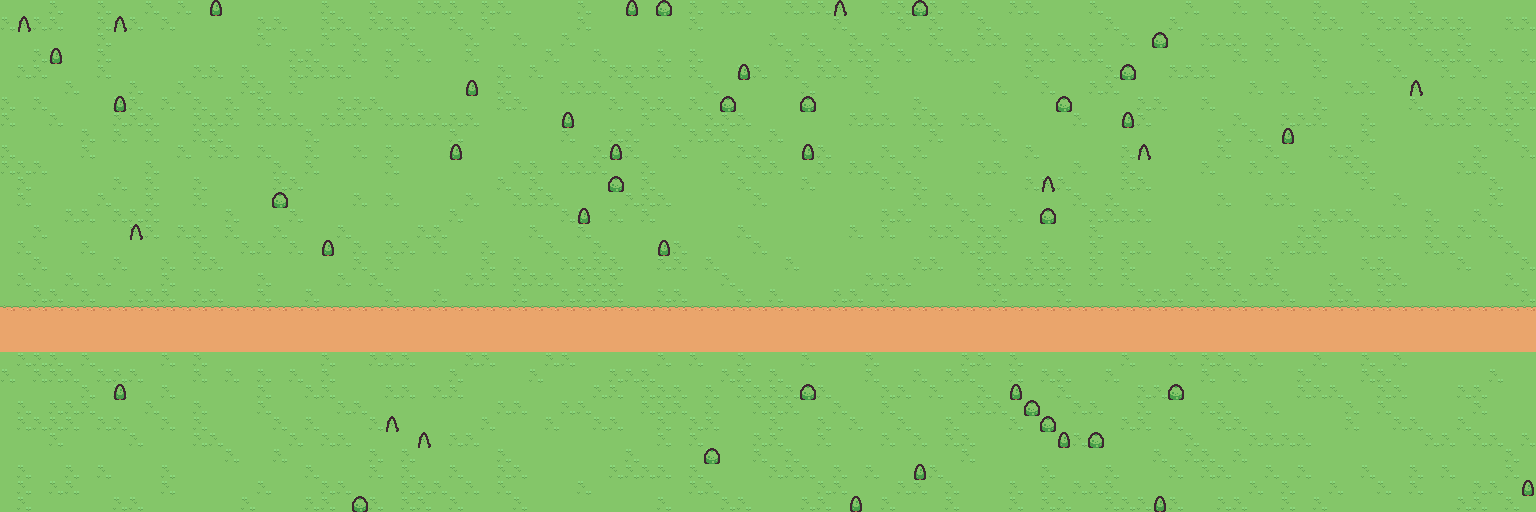
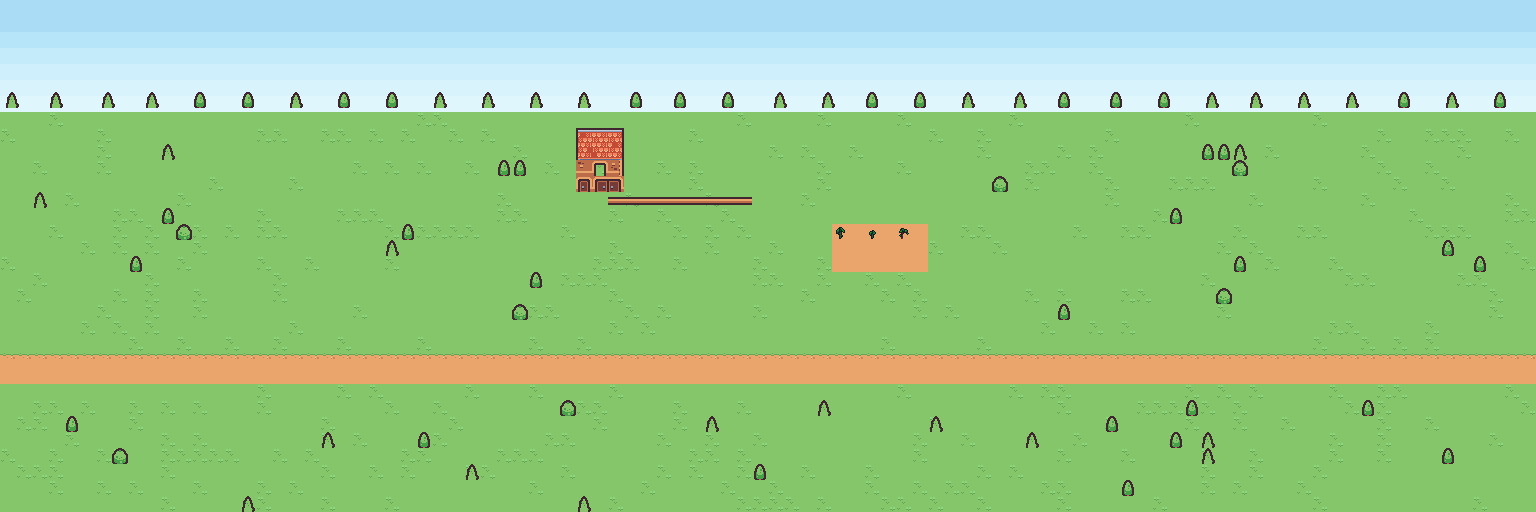
fix(wasm): sign-in buttons to spec, hide off providers, readable title
- Google: the real Google Identity Services button (outline, large, rectangular, left logo, the game's locale) at the form's width.
- Microsoft: the official button spec (41 px high, white, 1 px #8C8C8C edge, 2 px corners, 21 px mark 12 px from the left, Segoe UI 15 px 600 #5E5E5E, hover #F3F3F3).
- Both buttons share one width and height, stacked with an 8 px gap, inside the panel padding, with no wooden frame.
- A provider that is off on the server has no button; one notice says so.
- The title and tagline sit on a dark plaque for contrast.
- The backdrop is a soft farm scene: a sky band, a tree line, a farmhouse, a fence, a tilled plot and a path (art/own/ui/start_meadow.png), anchored to the top.

The QA capture takes a labelled providers-enabled run with dummy client ids (NOSUM_QA_DUMMY_PROVIDERS), set in memory; the repository config is unchanged.

diff --git a/wasm/Nosum.Wasm/Components/Account/MicrosoftSignInButton.razor.css b/wasm/Nosum.Wasm/Components/Account/MicrosoftSignInButton.razor.css
@@ -1,28 +1,28 @@
-/* Microsoft's button (brand guidelines): white with a grey edge, the mark and the label on one line. The colours are the brand's, not the theme's,
-   and the 1 px edge is the brand's too. The size is in u, like the rest of the window. */
+/* Microsoft's button, to its official spec: 41 px high, white, a 1 px #8C8C8C edge, at most 2 px corners, the 21 px mark 12 px from the left, the label
+   in Segoe UI 15 px weight 600 #5E5E5E. The brand sets these values, so they are not in u or the theme's tokens (docs/adr/ADR-082). */
 .ms-signin {
     box-sizing: border-box;
     display: flex;
     align-items: center;
     justify-content: center;
-    gap: calc(var(--u) * 3);
+    gap: 12px;
     width: 100%;
-    height: calc(var(--u) * 14);
+    height: 41px;
     margin: 0;
-    padding: 0 calc(var(--u) * 3);
+    padding: 0 12px;
     background: #ffffff;
     border: 1px solid #8c8c8c;
-    border-radius: 0;
+    border-radius: 2px;
     color: #5e5e5e;
-    font-family: "Segoe UI", "Segoe UI Semibold", "Helvetica Neue", Arial, sans-serif;
-    font-size: var(--nosum-fs-body);
+    font-family: "Segoe UI", system-ui, sans-serif;
+    font-size: 15px;
     font-weight: 600;
     line-height: 1;
     cursor: pointer;
 }
 
 .ms-signin:hover {
-    background: #f2f2f2;
+    background: #f3f3f3;
 }
 
 .ms-signin:active {
@@ -43,8 +43,8 @@
 
 .ms-signin-mark {
     flex: none;
-    width: calc(var(--u) * 7);
-    height: calc(var(--u) * 7);
+    width: 21px;
+    height: 21px;
 }
 
 .ms-signin-label {

diff --git a/wasm/Nosum.Wasm/Components/Account/AccountForm.razor.css b/wasm/Nosum.Wasm/Components/Account/AccountForm.razor.css
@@ -8,33 +8,22 @@
     gap: calc(var(--u) * 2);
 }
 
-/* The two provider buttons share one width and sit centred, with no pixel frame: Google's and Microsoft's own looks. */
+/* The two provider buttons: the same width and height (41 px), stacked with an 8 px gap, no frame around them. A provider that is off has no
+   button here. */
 .account-providers {
     display: flex;
     flex-direction: column;
     align-items: stretch;
-    gap: calc(var(--u) * 2);
+    gap: 8px;
     width: 100%;
 }
 
-/* The slot Google's button is drawn into: Google sizes its button to the slot's width (external-sign-in.js). */
+/* The slot Google's button is drawn into: Google sizes its button to the slot's width (external-sign-in.js), and centres it in the 41 px height. */
 .account-google {
     display: flex;
     align-items: center;
     justify-content: center;
     box-sizing: border-box;
     width: 100%;
-    min-height: calc(var(--u) * 14);
-}
-
-/* Google's button while Google is off on this server: the same size and edge as Microsoft's, greyed. */
-.account-google-off {
-    height: calc(var(--u) * 14);
-    border: 1px solid #cccccc;
-    background: #f2f2f2;
-    color: #a6a6a6;
-    font-family: "Segoe UI", "Helvetica Neue", Arial, sans-serif;
-    font-size: var(--nosum-fs-body);
-    font-weight: 600;
-    line-height: 1;
+    height: 41px;
 }

diff --git a/wasm/Nosum.Wasm/Components/Account/StartScreen.razor.css b/wasm/Nosum.Wasm/Components/Account/StartScreen.razor.css
@@ -16,7 +16,7 @@
     background-image: url("_content/Nosum.Wasm.Controls/ui/start_meadow.png");
     background-repeat: repeat;
     background-size: calc(var(--u) * 1536) calc(var(--u) * 512);
-    background-position: 50% 50%;
+    background-position: 50% 0;
     image-rendering: pixelated;
 }
 
@@ -43,8 +43,19 @@
         0 calc(var(--logo-o) * 3) 0 var(--nosum-edge), var(--logo-o) calc(var(--logo-o) * 3) 0 var(--nosum-edge), calc(var(--logo-o) * -1) calc(var(--logo-o) * 3) 0 var(--nosum-edge);
 }
 
+/* The title and tagline sit on a dark plaque, so the cream title and the tagline read clearly over the sky and the meadow. */
+.start-hero {
+    display: flex;
+    flex-direction: column;
+    align-items: center;
+    box-sizing: border-box;
+    padding: calc(var(--u) * 3) calc(var(--u) * 6) calc(var(--u) * 2);
+    background: color-mix(in srgb, var(--nosum-wood-dark) 88%, transparent);
+    border: var(--u) solid var(--nosum-edge);
+}
+
 .start-tagline {
-    margin: 0 0 var(--nosum-gap-group);
+    margin: 0;
     color: var(--nosum-ink-on-dark);
     text-shadow: var(--tp) var(--tp) 0 var(--nosum-edge);
 }

diff --git a/tools/art_repack/start_meadow.py b/tools/art_repack/start_meadow.py
@@ -1,8 +1,8 @@
-"""Composes the start-screen meadow (art/own/ui/start_meadow.png) from Kenney Tiny Town tiles (CC0).
+"""Composes the start-screen backdrop, art/own/ui/start_meadow.png, from CC0 tiles (Kenney Tiny Town and the josehzz crops sheet).
 
-The tiles are cut from art/source/kenney_tiny-town/Tilemap/tilemap.png: 16 x 16 px cells on a 17 px pitch (1 px gap). The picture is 96 x 32 cells,
-1536 x 512 px, drawn at 1 art pixel = 1 u on the start screen and repeated, so the page is meadow at any size. Run from the repository root: python3 tools/art_repack/start_meadow.py
-The seed fixes the grass pattern, so the output is the same on every run.
+The picture is 96 x 32 cells of 16 px (1536 x 512 px). It is drawn at 1 art pixel = 1 u on the start screen, anchored to the top and repeated, so
+the soft sky band stays at the top of any screen. The farm sits in the middle columns, where the window is drawn at 1280 px wide. The seed fixes the
+random scatter, so a run reproduces the file. Run from the repository root: python3 tools/art_repack/start_meadow.py
 """
 
 import os
@@ -11,37 +11,78 @@ import random
 from PIL import Image
 
 ROOT = os.path.abspath(os.path.join(os.path.dirname(__file__), "..", ".."))
-SRC = os.path.join(ROOT, "art", "source", "kenney_tiny-town", "Tilemap", "tilemap.png")
+TOWN = os.path.join(ROOT, "art", "source", "kenney_tiny-town", "Tilemap", "tilemap.png")
+CROPS = os.path.join(ROOT, "art", "source", "josehzz_farming-crops-16x16", "Crop_Spritesheet.png")
 OUT = os.path.join(ROOT, "art", "own", "ui", "start_meadow.png")
 
-sheet = Image.open(SRC).convert("RGBA")
+town = Image.open(TOWN).convert("RGBA")
+crops = Image.open(CROPS).convert("RGBA")
 
 
 def tile(col, row):
+    """A Tiny Town cell: 16 px on a 17 px pitch (1 px gap)."""
     x, y = col * 17, row * 17
-    return sheet.crop((x, y, x + 16, y + 16))
+    return town.crop((x, y, x + 16, y + 16))
+
+
+def crop_cell(col, row):
+    """A crops-sheet cell: 16 px on a 16 px pitch."""
+    x, y = col * 16, row * 16
+    return crops.crop((x, y, x + 16, y + 16))
 
 
 W, H = 96, 32
-img = Image.new("RGBA", (W * 16, H * 16), (0, 0, 0, 0))
+SKY_ROWS = 7
+SKY = [(170, 220, 245), (170, 220, 245), (182, 228, 248), (196, 235, 250), (206, 239, 251), (216, 243, 252), (224, 246, 253)]
 rng = random.Random(7)
-grass = [tile(0, 0), tile(0, 0), tile(0, 0), tile(0, 0), tile(1, 0), tile(1, 0)]
-for ty in range(H):
+img = Image.new("RGBA", (W * 16, H * 16), (0, 0, 0, 255))
+
+# Sky band: flat soft rows at the top.
+for ty in range(SKY_ROWS):
+    img.paste(SKY[ty], (0, ty * 16, W * 16, ty * 16 + 16))
+
+# Meadow below the sky: grass with a few specks; the lighter tile is used less.
+grass = [tile(0, 0)] * 5 + [tile(1, 0)]
+for ty in range(SKY_ROWS, H):
     for tx in range(W):
         img.paste(rng.choice(grass), (tx * 16, ty * 16))
 
-# A dirt path across the lower third.
-PATH_TOP, PATH_BOTTOM = 19, 21
-for tx in range(W):
-    for ty in range(PATH_TOP, PATH_BOTTOM + 1):
-        img.paste(tile(1, 1) if ty == PATH_TOP else tile(1, 2), (tx * 16, ty * 16))
+# A distant tree line along the sky's edge, sparse and soft.
+for tx in range(0, W, 3):
+    img.alpha_composite(tile(4, 0) if rng.random() < 0.6 else tile(4, 2), (tx * 16 + rng.randrange(0, 2) * 4, (SKY_ROWS - 1) * 16 - 4))
 
-# Trees and bushes scattered over the whole picture, off the path, so any window of the tiled meadow shows some.
+# Path: one narrow band, low in the picture, across the full width.
+PATH_TOP, PATH_BOTTOM = 22, 23
+for tx in range(W):
+    img.paste(tile(1, 1), (tx * 16, PATH_TOP * 16))
+    img.paste(tile(1, 2), (tx * 16, (PATH_TOP + 1) * 16))
+
+# The farm, centred on the visible columns (34 to 62): a red-roofed house left of centre, a rail fence, and a tilled plot with sprouts.
+HOUSE_X, HOUSE_Y = 36, 8
+for col in range(3):
+    img.alpha_composite(tile(4 + col, 4), ((HOUSE_X + col) * 16, HOUSE_Y * 16))
+    img.alpha_composite(tile(4 + col, 5), ((HOUSE_X + col) * 16, (HOUSE_Y + 1) * 16))
+    img.alpha_composite(tile(1 + col, 6), ((HOUSE_X + col) * 16, (HOUSE_Y + 2) * 16))
+    img.alpha_composite(tile(1 + col, 7), ((HOUSE_X + col) * 16, (HOUSE_Y + 3) * 16))
+
+for tx in range(38, 47):
+    img.alpha_composite(tile(9, 6), (tx * 16, 12 * 16))
+
+PLOT_X, PLOT_Y, PLOT_W, PLOT_H = 52, 14, 6, 3
+for ty in range(PLOT_Y, PLOT_Y + PLOT_H):
+    for tx in range(PLOT_X, PLOT_X + PLOT_W):
+        img.alpha_composite(tile(1, 2), (tx * 16, ty * 16))
+SPROUTS = [crop_cell(3, 2), crop_cell(4, 2), crop_cell(3, 3), crop_cell(4, 3)]
+for i, tx in enumerate(range(PLOT_X, PLOT_X + PLOT_W, 2)):
+    img.alpha_composite(SPROUTS[i % len(SPROUTS)], (tx * 16, PLOT_Y * 16))
+
+# Scattered trees and bushes in the meadow, kept out of the farm and the path.
 TREES = [(4, 0), (4, 2), (5, 0)]
-for _ in range(64):
-    tx = rng.randrange(W)
-    ty = rng.randrange(H)
-    if PATH_TOP - 2 <= ty <= PATH_BOTTOM + 2:
+for _ in range(60):
+    tx, ty = rng.randrange(W), rng.randrange(SKY_ROWS + 2, H)
+    if PATH_TOP - 2 <= ty <= PATH_BOTTOM + 1:
+        continue
+    if HOUSE_X - 2 <= tx <= PLOT_X + PLOT_W + 2 and HOUSE_Y - 1 <= ty <= PLOT_Y + PLOT_H + 1:
         continue
     col, row = rng.choice(TREES)
     img.alpha_composite(tile(col, row), (tx * 16, ty * 16))

diff --git a/docs/adr/ADR-082-remembered-sign-in-and-start-screen.md b/docs/adr/ADR-082-remembered-sign-in-and-start-screen.md
@@ -28,12 +28,14 @@ wooden button frame, while each provider asks for its own look.
    then a logout) and forgets the record either way. Signing out from the game does the same locally.
 6. **Storage that refuses is not an error.** A browser that blocks `localStorage` reads as "nothing remembered", and a write that fails is ignored;
    the sign-in still works for the visit.
-7. **Start screen.** The backdrop is `art/own/ui/start_meadow.png`, a daytime meadow composed from Kenney Tiny Town tiles (CC0) by
-   `tools/art_repack/start_meadow.py`; it replaces the sky-and-sea backdrop of docs/adr/ADR-017. The window keeps the shared `GamePanel`.
-8. **Provider buttons are not framed.** Google's button is drawn by Google (Google Identity Services) at the width of its slot. Microsoft's is
-   drawn to Microsoft's brand guidelines: white, a grey edge, the four-square mark and the label in Segoe UI. Neither sits in the game's wooden
-   frame. The brand colours and the 1 px edge are the one exception to the token rule of docs/design/ui-standard.md section 1, because the brand
-   sets them.
+7. **Start screen.** The backdrop is `art/own/ui/start_meadow.png`, a soft daytime farm scene (a sky band, a meadow with a farmhouse, a fence, a
+   tilled plot and a path) composed from CC0 tiles by `tools/art_repack/start_meadow.py`; it replaces the sky-and-sea backdrop of docs/adr/ADR-017.
+   The title and tagline sit on a dark plaque for contrast. The window keeps the shared `GamePanel`.
+8. **Provider buttons are not framed, and a provider that is off has no button.** Google's button is Google Identity Services' own (outline,
+   large, rectangular, left logo) at the width of its slot. Microsoft's is drawn to its official spec: 41 px high, white, a 1 px #8C8C8C edge, at most
+   2 px corners, the 21 px mark 12 px from the left, Segoe UI 15 px weight 600 #5E5E5E. Both are the same width, stacked with an 8 px gap, inside the
+   panel padding, with no wooden frame. The brand values are the one exception to the token rule of docs/design/ui-standard.md section 1.
+   When a provider is off on the server, its button is hidden and one notice says so.
 
 No wire change: `ResumeSession` and `Logout` already exist, and the protocol version does not move. The server is unchanged.
 
@@ -44,8 +46,9 @@ No wire change: `ResumeSession` and `Logout` already exist, and the protocol ver
 - The token sits in `localStorage`, as the server key does (docs/adr/ADR-032 D1). A script running on the game's origin could read it, so the
   game keeps third-party scripts to the two identity providers it already loads, and no others.
 - The continue card's text and the Microsoft label have Vietnamese and English strings (`Language.resx`, `Language.en.resx`).
-- The Google button can only be checked with a client id set and the provider reachable; the QA captures show it off (no client id in the
-  repository's `appsettings.json`).
+- The repository's `appsettings.json` has no client ids, so a default run shows no provider buttons, only one notice. The providers-enabled captures
+  set dummy ids in memory for that run (`NOSUM_QA_DUMMY_PROVIDERS`); Google's real script renders its own button for them. A live sign-in needs real
+  ids and a reachable provider.
 
 ## References
 

diff --git a/art/own/SOURCES.md b/art/own/SOURCES.md
@@ -4,12 +4,12 @@ One entry per file or group of files, as [ADR-004](../../docs/adr/ADR-004-pixel-
 
 ## `ui/start_meadow.png`
 
-The start-screen backdrop: a daytime meadow of grass, a dirt path and a hedgerow of trees and bushes, 96 x 32 cells of 16 px (1536 x 512 px), drawn at 1 art pixel = 1 u. Composed by `tools/art_repack/start_meadow.py` from tiles cut out of the Kenney Tiny Town sheet (`source/kenney_tiny-town`); the grass pattern is seeded, so a run reproduces the file.
+The start-screen backdrop: a soft daytime sky band over a meadow, with a tree line, a red-roofed farmhouse, a rail fence, a tilled plot with sprouts and a narrow path; 96 x 32 cells of 16 px (1536 x 512 px), drawn at 1 art pixel = 1 u and tiled from the top. Composed by `tools/art_repack/start_meadow.py` from tiles cut out of the Kenney Tiny Town sheet (`source/kenney_tiny-town`) and the sprouts of the josehzz crops sheet (`source/josehzz_farming-crops-16x16`); the random scatter is seeded, so a run reproduces the file.
 
 | Field | Value |
 | :-- | :-- |
-| Made by | Nosum (`tools/art_repack/start_meadow.py`), from Kenney Tiny Town (kenney.nl, CC0 1.0), composed for ADR-082 |
-| License | The tiles are CC0 1.0 (`source/kenney_tiny-town/License.txt`); the composition is Nosum's own art. |
+| Made by | Nosum (`tools/art_repack/start_meadow.py`), from Kenney Tiny Town (kenney.nl, CC0 1.0) and the josehzz farming crops sheet (CC0 as stated on OpenGameArt), composed for ADR-082 |
+| License | The tiles are CC0 1.0 (`source/kenney_tiny-town/License.txt`, `source/josehzz_farming-crops-16x16/LICENSE.txt`); the composition is Nosum's own art. |
 
 ## `source/pixellab/*.png`, `*.json`
 
